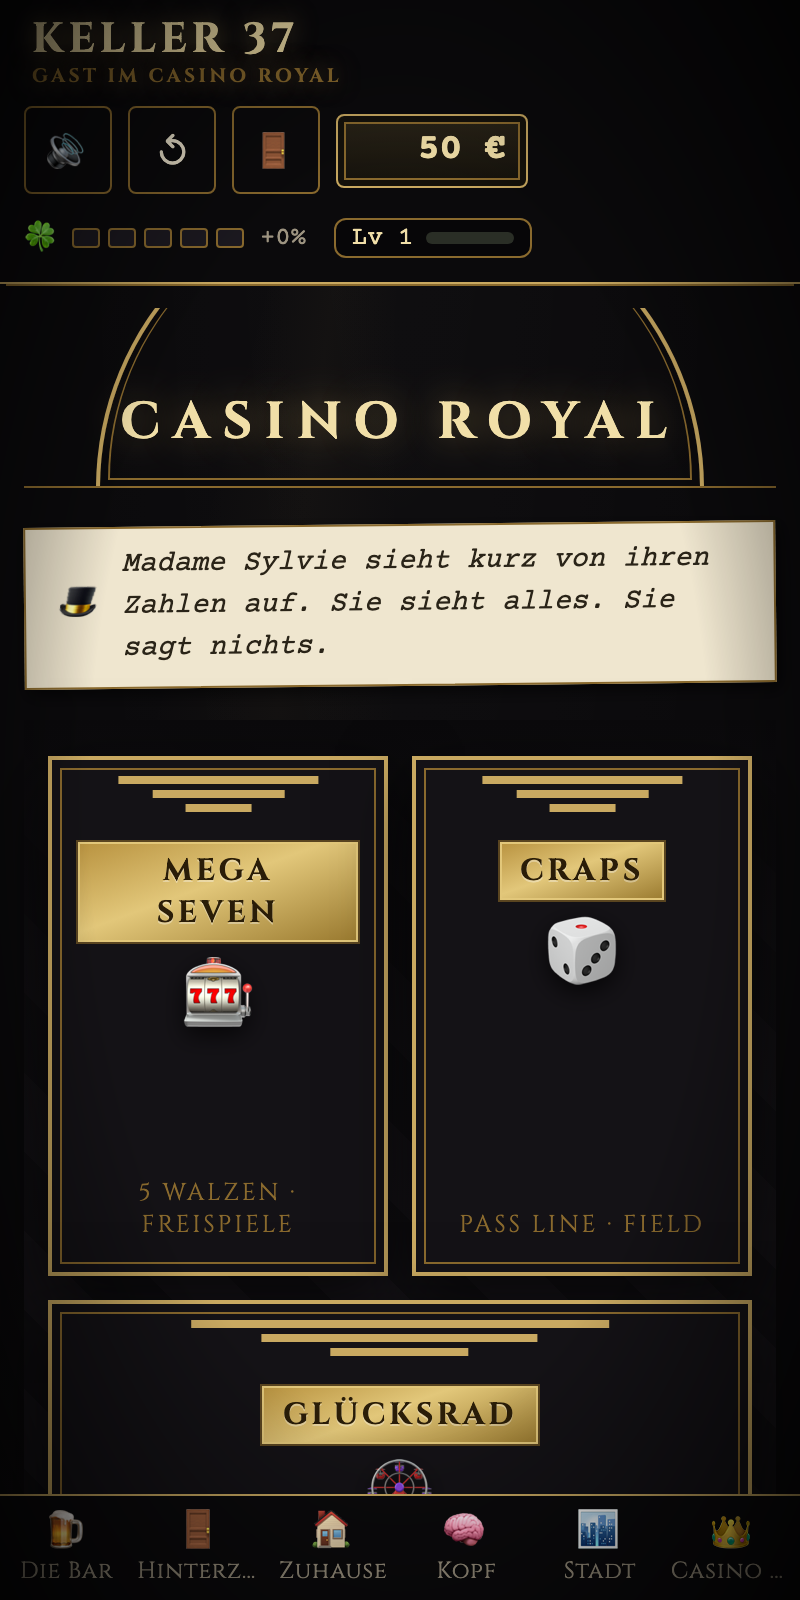
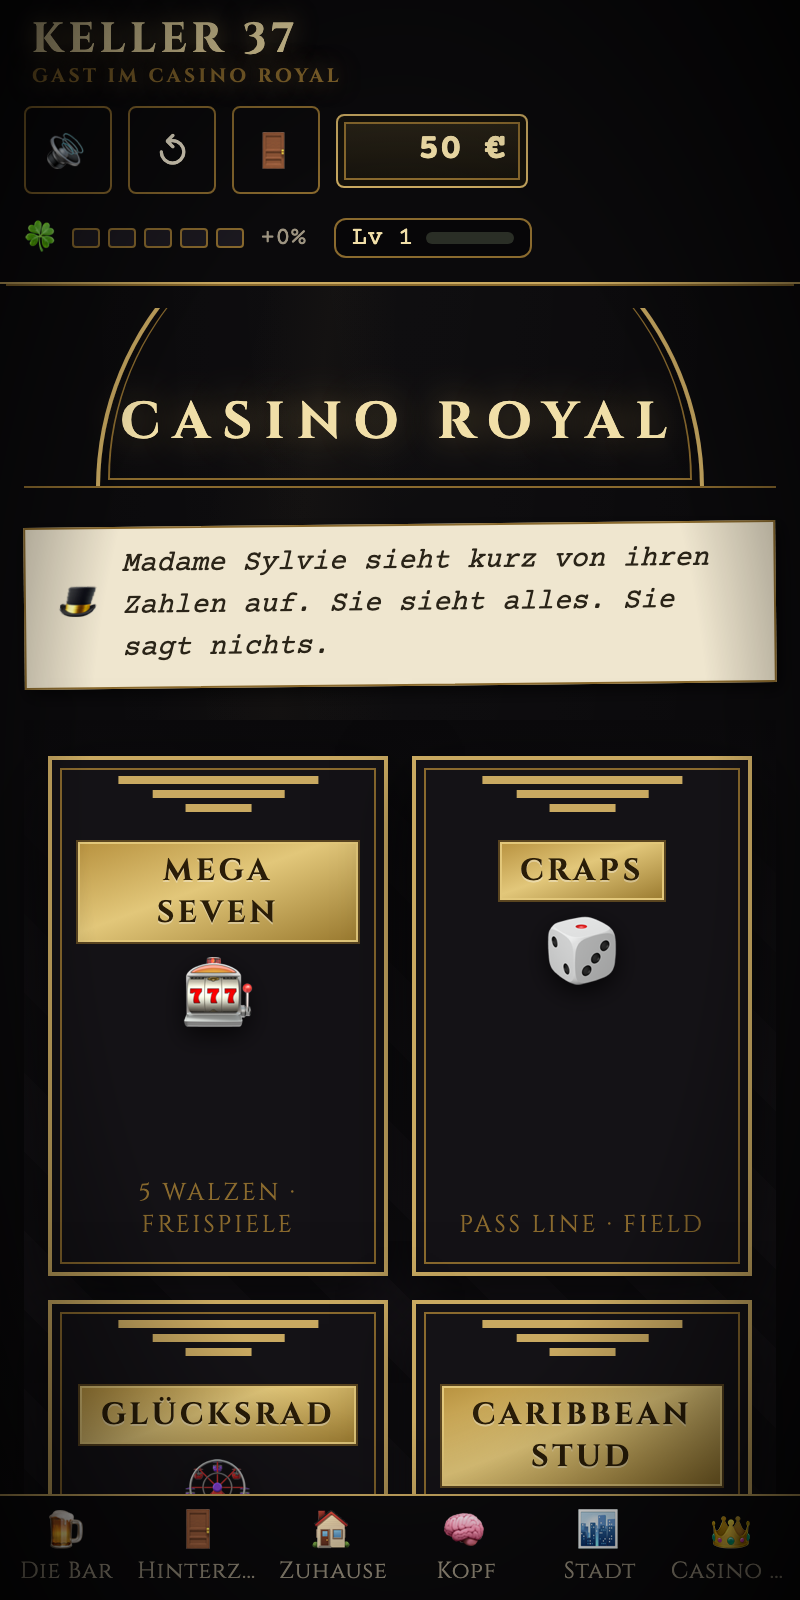
fix(stud): Playtest-Insider-Reset, kein Aufgabe-Toast im Showdown, Texte „Vier Tische“, Mobile-Screenshots

Changed region(s): [[0.0938, 0.8125, 0.9062, 0.9375]]

diff --git a/keller37.html b/keller37.html
@@ -4303,7 +4303,7 @@ UI.register('royal', {
 });
 Cutscene.define('royal.first', [
   { bg: 'royal', who: 'sylvie', mood: 'calm', text: 'Willkommen. Sie sind neu. Man sieht es an den Schuhen, nicht am Auto.' },
-  { bg: 'royal', who: 'sylvie', mood: 'calm', text: 'Drei Tische. Höhere Einsätze, bessere Beleuchtung, dieselbe Mathematik. Viel Vergnügen.' },
+  { bg: 'royal', who: 'sylvie', mood: 'calm', text: 'Vier Tische. Höhere Einsätze, bessere Beleuchtung, dieselbe Mathematik. Viel Vergnügen.' },
 ]);
 Cutscene.define('royal.leave', [
   { bg: 'royal', who: 'sylvie', mood: 'calm', text: 'Sie gehen? Der Eintritt gilt nicht für den Rückweg – die nächsten {{fee}} nehmen wir wieder an der Tür.',
@@ -5478,8 +5478,8 @@ UI.register('stud', {
   unmount() {
     Stud.gen++;
     document.removeEventListener('keydown', Stud.onKey);
-    if (Stud.inRound) {
-      /* Zwischen zwei Aktionen verlassen: Hand sofort fallen lassen. Läuft noch eine Kette (busy), räumt die selbst auf. */
+    if (Stud.inRound && !(Stud.busy && Stud.round && Stud.round.phase === 'showdown')) {
+      /* Zwischen zwei Aktionen verlassen: Hand sofort fallen lassen. Läuft noch eine Kette (busy), räumt die selbst auf. Ein laufender Showdown rechnet dagegen fertig ab und zahlt aus, ganz ohne diesen Toast. */
       if (!Stud.busy) Stud.drop(Stud.round);
       UI.toast({ icon: '🃏', title: 'Hand aufgegeben', text: 'Einsatz verfallen.', tone: 'loss' });
     }

diff --git a/tests/playtest-story.py b/tests/playtest-story.py
@@ -2008,8 +2008,8 @@ async def scenario_stud(cdp):
         status = await cdp.eval("document.querySelector('#studStatus').textContent", await_promise=False)
         return before, after_deal, hidden, after, status
 
-    # Trophaeen liegen im Meta-Speicher und ueberleben ?fresh und fruehere Laeufe im selben Chrome-Profil: hier zuruecksetzen
-    await cdp.eval("State.meta.achievements = State.meta.achievements.filter(id => id !== 'karibik'); State.saveMeta(); 0", await_promise=False)
+    # Trophaeen und Insider-Wissen (State.meta.insider) liegen im Meta-Speicher und ueberleben ?fresh und fruehere Laeufe im selben Chrome-Profil: hier zuruecksetzen
+    await cdp.eval("State.meta.insider = []; State.meta.achievements = State.meta.achievements.filter(id => id !== 'karibik'); State.saveMeta(); 0", await_promise=False)
     # 1) Zwei Paare gegen Paar 9, Ante 100: Bet 200, Bonus 2:1 -> net +500
     b0, bd, hidden, b1, status = await play(["K♠", "K♥", "7♣", "7♠", "2♥"], ["9♦", "9♣", "5♠", "4♦", "Q♥"], 100, "shot")
     ach = await cdp.eval("Achievements.has('karibik')", await_promise=False)

diff --git a/README.md b/README.md
@@ -11,7 +11,7 @@ Ein satirisches Casino-Lebenssimulations-Spiel in einer einzigen HTML-Datei. Fü
 - **Kredite:** Bank (8 % Zinsen pro Spin, Limit 3.000 €, nur ein Kredit auf einmal) oder Don Vito (5 Spins Frist, danach der Doc).
 - **Anlagen:** Festgeld +8 % nach 6 Spins (10 % Risiko), Aktien +100 % nach 2 Spins (85 %), Trickbetrug +50 % nach 10 Spins (55 %) – je Sorte eine laufende Anlage.
 - **Stadt:** Autohaus (Audi-Linie senkt das Überfallrisiko und erhöht die Fluchtchance, Mercedes-Linie hebt Bank-Limit und senkt die Zinsen) und INTERSPORT (Laufschuhe verbessern die Flucht, bringen mehr Zeit/Lohn beim Postboten und helfen bei den Job-Minispielen). Ein neues Auto nimmt das alte mit 50 % seines Preises in Zahlung, Schuhe gibt es nur zum vollen Preis.
-- **Casino Royal:** am Ende der Straße, nur mit Auto (Parkservice). Eintritt 100 € – bis zum ersten Einzelgewinn ab 5.000 €, dann bist du Gast des Hauses. Drei Tische mit höheren Einsätzen: **Mega Seven** (5 Walzen, 5 Linien, Freispiele ×2), **Craps** (Pass Line und Field, jeder Wurf ein Spin) und das **Glücksrad** (24 Felder, ×10 bis Bankrott). Madame Sylvie sieht alles. Ein anderer Ort: Art déco in Gold und Schwarz – beim Betreten wechselt die ganze Seite (Kopfzeile, Seitenleiste, Chips) hinter einem Gold-Vorhang, die Lobby ist ein Foyer mit drei Portalen, Mega Seven hat echte Walzenstreifen (Anlauf, Bremsen, Nachwippen, Stopp-Klack mit steigender Tonhöhe), baut Spannung auf, wenn nach drei Walzen Freispiele oder ein großer Treffer in Reichweite sind (die letzten zwei laufen länger, die Maschine glüht, Herzschlag), feiert BIG WIN ab 10× und MEGA WIN ab 50× Einsatz mit Banner, hochzählendem Betrag und Goldregen, zeichnet Gewinnlinien in Gold, klappt bei Freispielen ein Banner aus und dreht auf Wunsch **Auto ×10** Runden am Stück (stoppt bei Big Win oder leerer Kasse), Craps markiert Einsätze mit Chip-Stapeln, das Glücksrad hat Zahnkranz, Lauflichter und beim Bankrott gehen kurz die Lichter aus. In der Stadt steht die Fassade mit Marquee, Messingschild und – am Zitter-Tag – einem Türsteher. An allen Tischen mit festen Einsätzen (Mega Seven, Craps, Glücksrad, Baccarat) steht der gewählte Betrag wie im Keller im Feld neben den Chips, der passende Chip ist hervorgehoben.
+- **Casino Royal:** am Ende der Straße, nur mit Auto (Parkservice). Eintritt 100 € – bis zum ersten Einzelgewinn ab 5.000 €, dann bist du Gast des Hauses. Vier Tische mit höheren Einsätzen: **Mega Seven** (5 Walzen, 5 Linien, Freispiele ×2), **Craps** (Pass Line und Field, jeder Wurf ein Spin), das **Glücksrad** (24 Felder, ×10 bis Bankrott) und **Caribbean Stud** (Ante 100–1.000 €, Mitgehen 2× Ante, Dealer braucht Ass-König, Bonus bis 100:1). Madame Sylvie sieht alles. Ein anderer Ort: Art déco in Gold und Schwarz – beim Betreten wechselt die ganze Seite (Kopfzeile, Seitenleiste, Chips) hinter einem Gold-Vorhang, die Lobby ist ein Foyer mit vier Portalen, Mega Seven hat echte Walzenstreifen (Anlauf, Bremsen, Nachwippen, Stopp-Klack mit steigender Tonhöhe), baut Spannung auf, wenn nach drei Walzen Freispiele oder ein großer Treffer in Reichweite sind (die letzten zwei laufen länger, die Maschine glüht, Herzschlag), feiert BIG WIN ab 10× und MEGA WIN ab 50× Einsatz mit Banner, hochzählendem Betrag und Goldregen, zeichnet Gewinnlinien in Gold, klappt bei Freispielen ein Banner aus und dreht auf Wunsch **Auto ×10** Runden am Stück (stoppt bei Big Win oder leerer Kasse), Craps markiert Einsätze mit Chip-Stapeln, das Glücksrad hat Zahnkranz, Lauflichter und beim Bankrott gehen kurz die Lichter aus. In der Stadt steht die Fassade mit Marquee, Messingschild und – am Zitter-Tag – einem Türsteher. An allen Tischen mit festen Einsätzen (Mega Seven, Craps, Glücksrad, Caribbean Stud, Baccarat) steht der gewählte Betrag wie im Keller im Feld neben den Chips, der passende Chip ist hervorgehoben.
 - **Kater-HUD (Story 2):** Leber als Balken (grün → gelb → rot, pulsiert ab 30), Pegel als drei Bierkrüge, Deckel als Bierdeckel mit Strichliste; am Zitter-Tag zittern Kontostand und Krüge, ein roter Zettel zeigt −15 Glück, das erste Bier beendet es („Ruhige Hände.").
 - **Hinterzimmer:** 🂡 Baccarat (Punto Banco) · 500–10.000 € · Spieler 1:1, Bank 0,95:1, Unentschieden 8:1 · nur in Story 3.
 - **Überfälle & Stärke:** auf dem Weg in den Keller kann es einen Überfall geben – Kämpfen, Wegrennen oder Zahlen. Ein Kampf (gewonnen oder verloren) erhöht 💪 Stärke; Stärke verbessert die Kampfchance und den Türsteher-Bonus, schaltet den Job „Eintreiber" frei und macht ab 10 gefürchtet (seltener Ziel für Überfälle).
@@ -109,7 +109,7 @@ leichter macht, aber keine Geldmaschine wird.
 | URL-Zusatz | Wirkung |
 |---|---|
 | `?fresh` | beide Spielstände (frei und Story) löschen und neu starten |
-| `?screen=slots` | nur freies Spiel: Titelscreen überspringen und direkt einen Screen öffnen (`roulette`, `slots`, `horses`, `russian`, `blackjack`, `hinterzimmer`, `postman`, `finance`, `invest`, `life`, `stadt`, `royal`, `skills` – bei `stadt` öffnet `&shop=audi|merc|sport` direkt einen Laden, bei `royal` öffnet `&game=megaslots|craps|wheel` direkt einen Tisch; `hinterzimmer` (Baccarat) zeigt so auch im freien Spiel, z. B. `?fresh&mode=free&screen=hinterzimmer`). Story-Screens erreicht man stattdessen über `?story=…&job=…` (Mini-Spiele) bzw. nach dem Einstieg per `UI.show('jobs'|'vito'|'skills')` |
+| `?screen=slots` | nur freies Spiel: Titelscreen überspringen und direkt einen Screen öffnen (`roulette`, `slots`, `horses`, `russian`, `blackjack`, `hinterzimmer`, `postman`, `finance`, `invest`, `life`, `stadt`, `royal`, `skills` – bei `stadt` öffnet `&shop=audi|merc|sport` direkt einen Laden, bei `royal` öffnet `&game=megaslots|craps|wheel|stud` direkt einen Tisch; `hinterzimmer` (Baccarat) zeigt so auch im freien Spiel, z. B. `?fresh&mode=free&screen=hinterzimmer`). Story-Screens erreicht man stattdessen über `?story=…&job=…` (Mini-Spiele) bzw. nach dem Einstieg per `UI.show('jobs'|'vito'|'skills')` |
 | `?scene=divorce` | nur freies Spiel: eine Szene abspielen |
 | `?selftest` | Regel-Selbsttest im Browser (Ergebnis als Toast und in der Konsole) |
 | `?mode=story` \| `?mode=free` | Titelscreen überspringen, direkt in den Modus |
